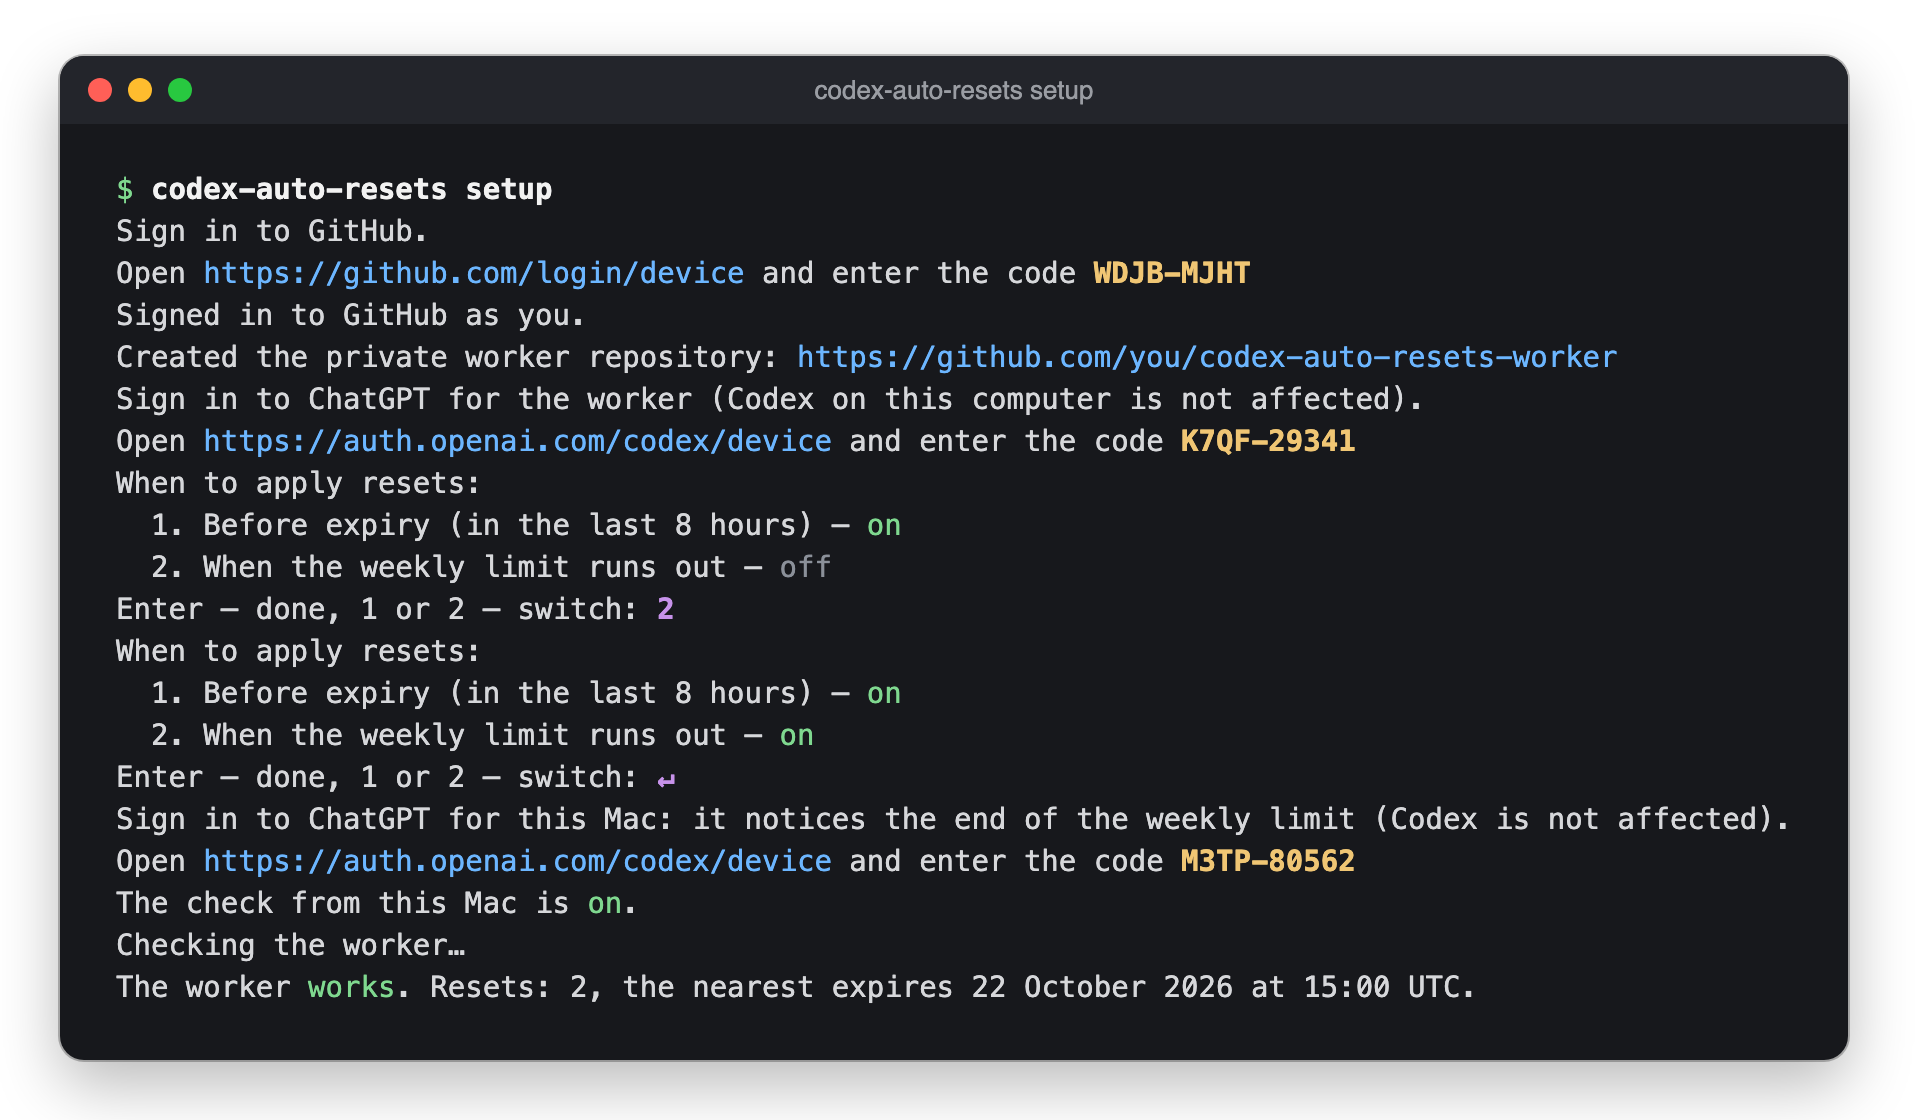
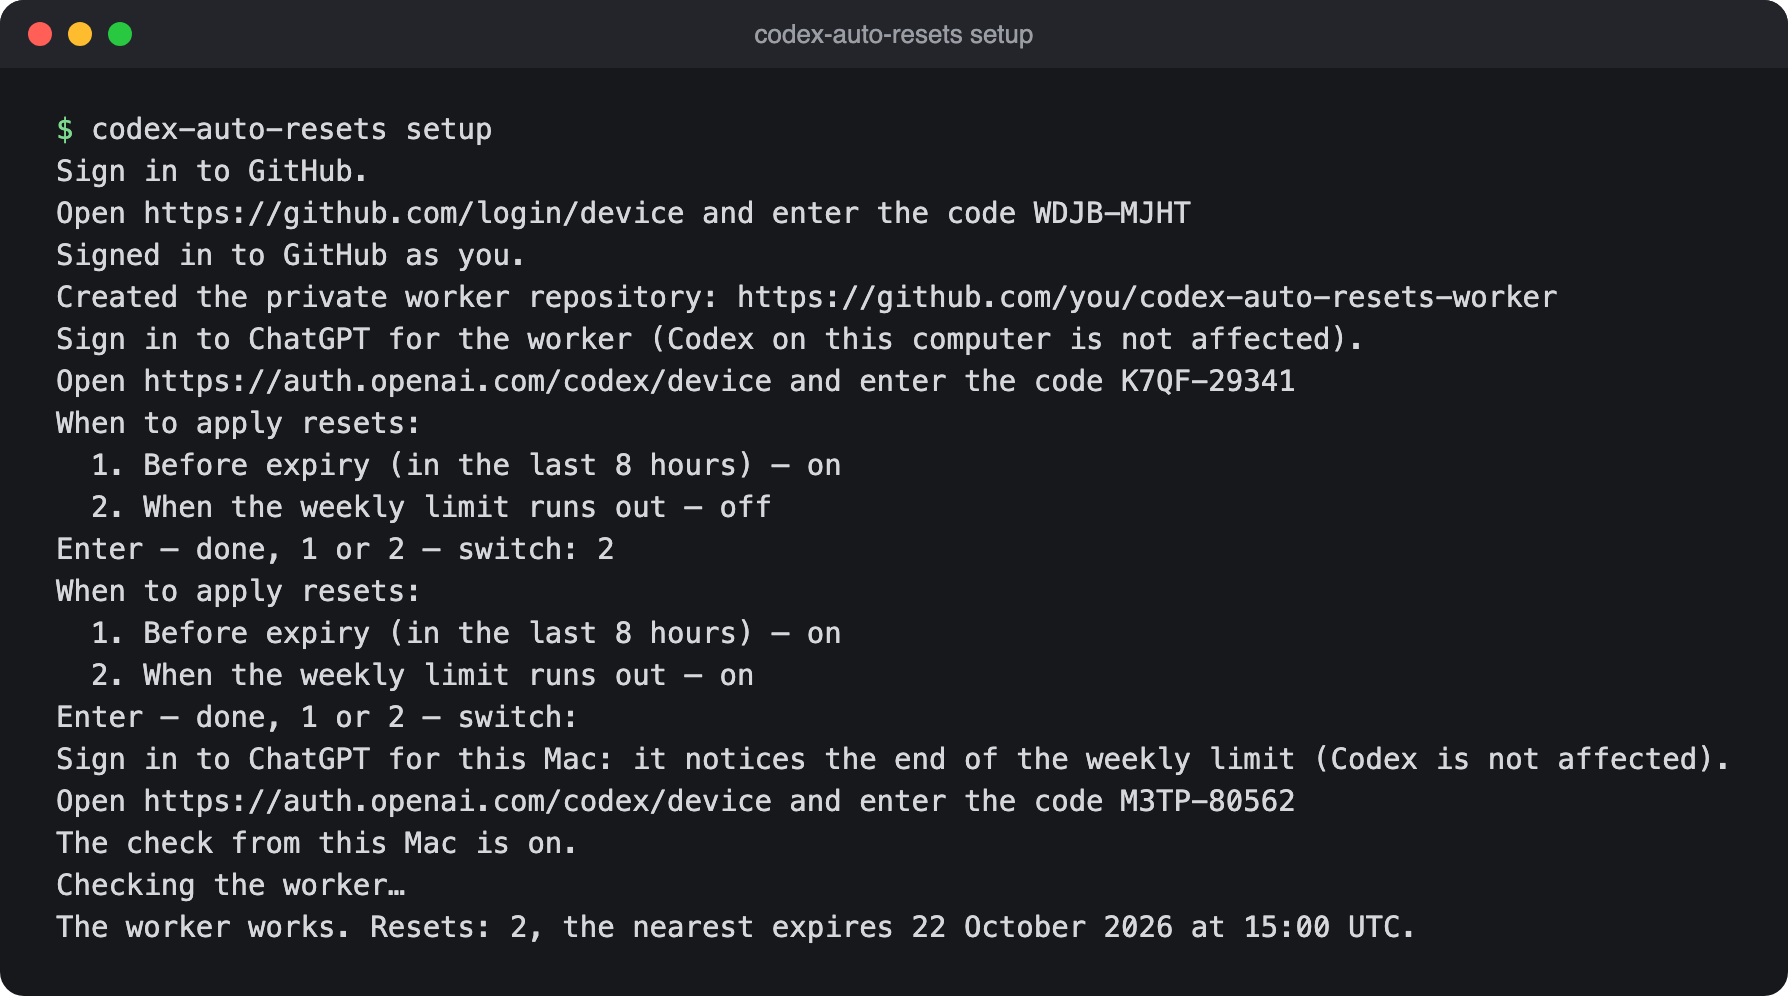
Retake the README screenshots without a frame and simplify the diagram
The screenshots are cropped to the terminal window: no white margin, shadow
or outline. The setup shots now show the plain text setup really prints,
without the colors added by hand. The How it works diagram is one flow:
what starts the worker, the rule check, the result.

Claude-Session: https://claude.ai/code/session_01KomWcFn4aD4NCr3muruXzQ

Changed region(s): [[0.0, 0.0, 1.0, 1.0]]

diff --git a/docs/README.ru.md b/docs/README.ru.md
@@ -60,20 +60,31 @@ codex-auto-resets setup
 
 ```mermaid
 flowchart LR
-  subgraph M["ваш Mac"]
-    CLI["codex-auto-resets<br/>setup · status<br/>rules · apply-now"]
-    A["проверка с Mac<br/>раз в 2 минуты"]
-  end
-  subgraph R["приватный репозиторий codex-auto-resets-worker"]
-    W["воркер<br/>GitHub Actions, раз в час"]
-    S[("зашифрованный вход<br/>и история")]
-  end
-  C["ChatGPT"]
-  CLI -- "установка, правила,<br/>«применить сейчас»" --> W
-  A -. "читает недельный лимит" .-> C
-  A -- "лимит кончился:<br/>запустить сейчас" --> W
-  W --- S
-  W -- "читает сбросы и лимиты,<br/>применяет сброс" --> C
+  hour(["⏰ каждый час"])
+  mac(["💻 Mac: недельный<br/>лимит кончился"])
+  you(["⌨ вы нажали Enter<br/>на сбросе"])
+  worker["<b>Воркер</b><br/>GitHub Actions<br/>в вашем приватном<br/>репозитории"]
+  due{"сработало правило<br/>или вы попросили?"}
+  apply(["✅ сброс применён<br/>в ChatGPT"])
+  wait(["💤 ждёт следующего<br/>запуска"])
+
+  hour --> worker
+  mac --> worker
+  you --> worker
+  worker --> due
+  due -- да --> apply
+  due -- нет --> wait
+
+  classDef trigger fill:#f6f8fa,stroke:#d0d7de,color:#1f2328
+  classDef main fill:#8A2BE2,stroke:#6a1fb0,color:#ffffff
+  classDef check fill:#fff8c5,stroke:#d4a72c,color:#1f2328
+  classDef ok fill:#1f883d,stroke:#1a7f37,color:#ffffff
+  classDef idle fill:#eaeef2,stroke:#d0d7de,color:#57606a
+  class hour,mac,you trigger
+  class worker main
+  class due check
+  class apply ok
+  class wait idle
 ```
 
 **Воркер** запускается по расписанию GitHub Actions примерно раз в час, сверяет сбросы с правилами и применяет нужный. Компьютер для этого не нужен: Mac участвует только в установке и управлении.

diff --git a/README.md b/README.md
@@ -59,20 +59,31 @@ Full guide, including installing from source: [docs/installation.en.md](docs/ins
 
 ```mermaid
 flowchart LR
-  subgraph M["your Mac"]
-    CLI["codex-auto-resets<br/>setup · status<br/>rules · apply-now"]
-    A["Mac check<br/>every 2 min"]
-  end
-  subgraph R["private repo codex-auto-resets-worker"]
-    W["worker<br/>GitHub Actions, hourly"]
-    S[("encrypted sign-in<br/>and history")]
-  end
-  C["ChatGPT"]
-  CLI -- "installs, sets rules,<br/>apply now" --> W
-  A -. "reads the weekly limit" .-> C
-  A -- "limit ran out:<br/>run now" --> W
-  W --- S
-  W -- "reads resets and limits,<br/>applies a reset" --> C
+  hour(["⏰ every hour"])
+  mac(["💻 your Mac sees<br/>the weekly limit run out"])
+  you(["⌨ you press Enter<br/>on a reset"])
+  worker["<b>Worker</b><br/>GitHub Actions<br/>in your private repo"]
+  due{"a rule fires<br/>or you asked?"}
+  apply(["✅ reset applied<br/>in ChatGPT"])
+  wait(["💤 waits for<br/>the next run"])
+
+  hour --> worker
+  mac --> worker
+  you --> worker
+  worker --> due
+  due -- yes --> apply
+  due -- no --> wait
+
+  classDef trigger fill:#f6f8fa,stroke:#d0d7de,color:#1f2328
+  classDef main fill:#8A2BE2,stroke:#6a1fb0,color:#ffffff
+  classDef check fill:#fff8c5,stroke:#d4a72c,color:#1f2328
+  classDef ok fill:#1f883d,stroke:#1a7f37,color:#ffffff
+  classDef idle fill:#eaeef2,stroke:#d0d7de,color:#57606a
+  class hour,mac,you trigger
+  class worker main
+  class due check
+  class apply ok
+  class wait idle
 ```
 
 **The worker** runs on GitHub Actions about once an hour, checks the resets against the rules and applies one when it's due. The Mac isn't needed for that: it only installs and controls the worker.
